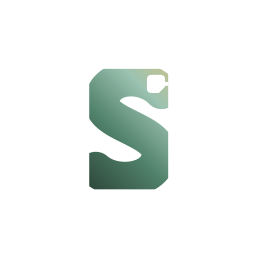
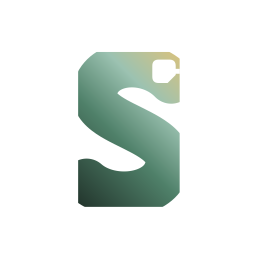
fix(branding): enlarge dock mark and soften dark outline

Changed region(s): [[0.2812, 0.1875, 0.7188, 0.8125]]

diff --git a/packages/native-shell-legacy-adapted/src/client/adapted.css b/packages/native-shell-legacy-adapted/src/client/adapted.css
@@ -174,7 +174,7 @@
 /* Keep both official outlines subordinate to content while giving the empty
  * stage and formal conversation the same theme-specific treatment. */
 .xsla-shell[data-theme="light"] :is(.stage-ghost,.conversation-ghost){opacity:.35}
-.xsla-shell[data-theme="ink-jade"] :is(.stage-ghost,.conversation-ghost){opacity:.45}
+.xsla-shell[data-theme="ink-jade"] :is(.stage-ghost,.conversation-ghost){opacity:.35}
 /* Electron can lose custom properties supplied only through SVG presentation
  * attributes. Bind both formal palettes directly so the stage and conversation
  * outlines render identically in their corresponding product themes. */
